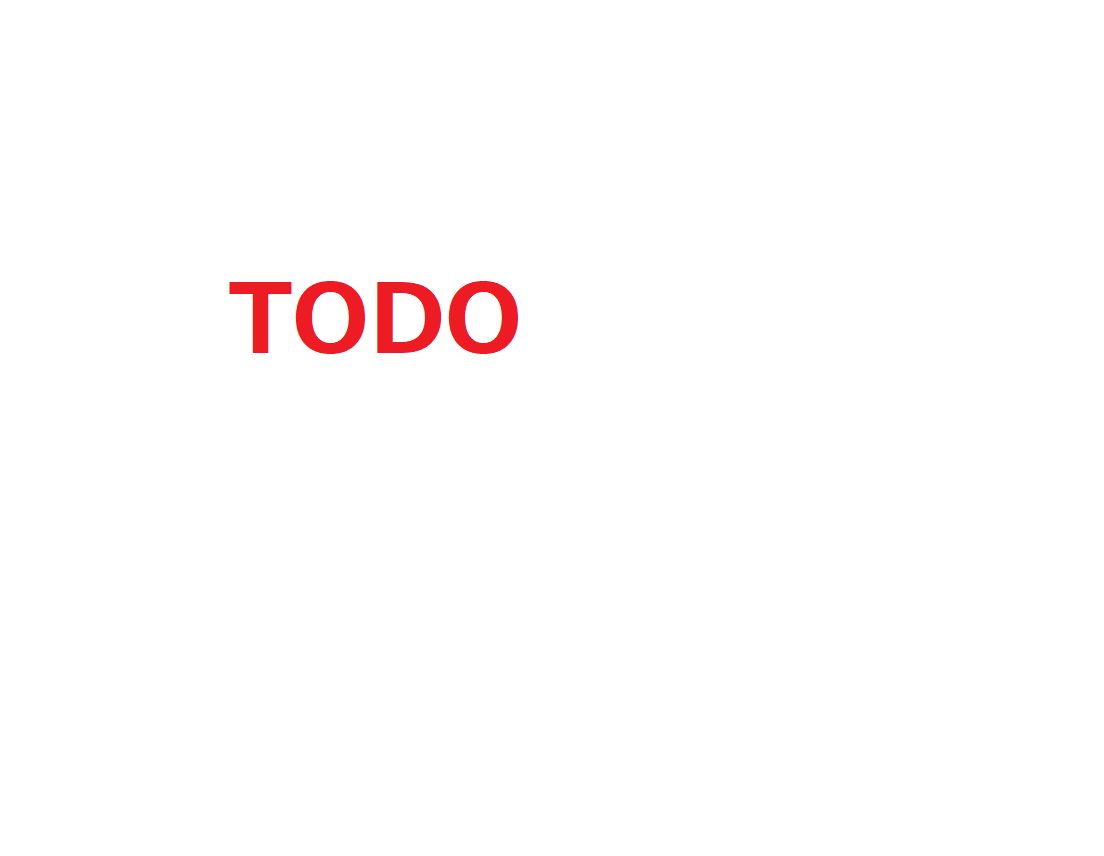
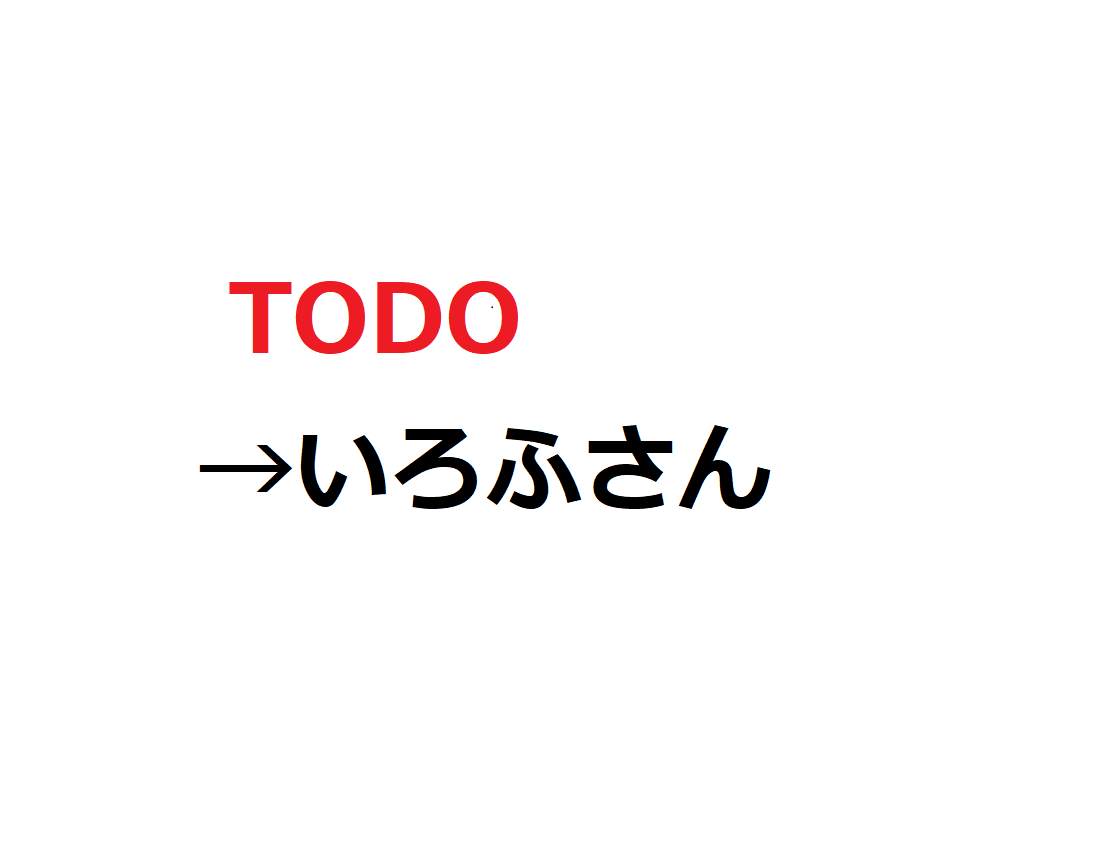
いろふさんのプロフィール画像を追加した

Changed region(s): [[0.1848, 0.486, 0.7083, 0.6075]]

diff --git a/index.html b/index.html
@@ -60,8 +60,6 @@
                     <article>
                         <h3>スピーカー</h3>
                         <div class="speaker">
-                            <!--TODO : プロフィール画像を受け取ったら更新する-->
-                
                             <img src="images/speaker1.png" alt="" class="image"/>
                             <div class="inner">
                                 <h4>いろふさん</h4>
